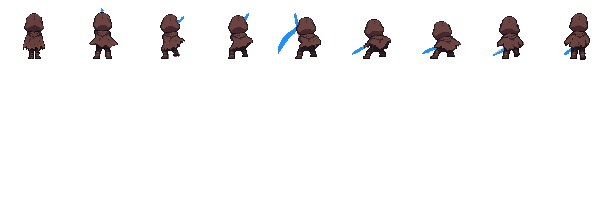
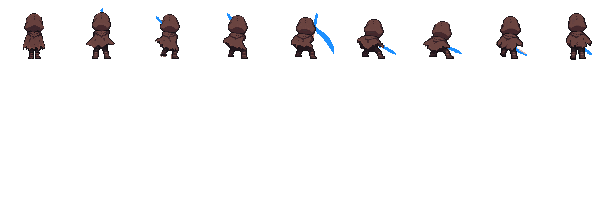
assets: 후면 1타 좌우 뒤집기 스크립트·비교 녹화 갱신

diff --git a/assets/concepts/pixellab/player_import/build_remake_preview.py b/assets/concepts/pixellab/player_import/build_remake_preview.py
@@ -65,9 +65,10 @@ OVERRIDES = {
     # 후면 공격 (2026-11-18, ChatGPT 8자세 attack_back_gpt_68.png): 칼은 늘 몸 뒤(가려짐). 보이는 칼날 끝에서 칼 길이(24)만큼
     # 몸 쪽이 손 (estimate_back_swords.py 로 어림 후 눈으로 맞춤). 칼이 안 보이는 장은 다섯째 값(칼 길이 비율) 0 = 그리지 않음.
     # 후면 1타 2차 (2026-11-18, PixelLab 이 GPT 자세 사이를 다시 그림 attack_back_pl_68.png). 4번째 = 잔상 장 (칼은 잔상 속).
-    ('backpl1', 1): (40, 31, 107, True), ('backpl1', 2): (32, 34, 50, True), ('backpl1', 3): (32, 34, 60, True),
-    ('backpl1', 4): (34, 30, -90, True, 0), ('backpl1', 5): (32, 41, -149, True), ('backpl1', 6): (36, 43, -157, True),
-    ('backpl1', 7): (37, 42, -148, True), ('backpl1', 8): (38, 39, -140, True),
+    # 측면·정면처럼 왼쪽 위로 들어 오른쪽 아래로 베게 좌우로 뒤집음: x → 67 - x, 각도 → 180 - 각도.
+    ('backpl1', 1): (27, 31, 73, True), ('backpl1', 2): (35, 34, 130, True), ('backpl1', 3): (35, 34, 120, True),
+    ('backpl1', 4): (33, 30, -90, True, 0), ('backpl1', 5): (35, 41, -31, True), ('backpl1', 6): (31, 43, -23, True),
+    ('backpl1', 7): (30, 42, -32, True), ('backpl1', 8): (29, 39, -40, True),
     ('backgpt1', 1): (34, 30, -90, True, 0), ('backgpt1', 2): (28, 41, 41, True), ('backgpt1', 3): (32, 34, 50, True),
     ('backgpt1', 4): (34, 30, -90, True, 0), ('backgpt1', 5): (36, 43, -157, True), ('backgpt1', 6): (38, 37, -147, True),
     ('backgpt1', 7): (36, 28, -129, True), ('backgpt1', 8): (34, 30, -90, True, 0),

diff --git a/assets/concepts/pixellab/player_import/build_attack_back_pl.py b/assets/concepts/pixellab/player_import/build_attack_back_pl.py
@@ -24,6 +24,9 @@ PICK = {
 }
 # 휘두르는 장에 겹칠 GPT 잔상: 타 → (8장 중 번호 0부터, GPT 시트 칸)
 ARC = {1: (3, 4)}
+# 좌우로 뒤집는 타 (2026-11-18 사용자: 측면·정면 1타는 화면 왼쪽 위로 들어 오른쪽 아래로 벰. GPT·PixelLab 후면은 반대였음).
+# 뒷모습은 거의 좌우 대칭이라 그림째 뒤집는다 (칼 위치는 build_remake_preview.OVERRIDES 'backpl1' 이 뒤집은 값).
+MIRROR = {1}
 
 
 def blue_only(cell):
@@ -48,6 +51,8 @@ def main():
                 arc = blue_only(gpt_rows[hit][ARC[hit][1]])
                 arc.alpha_composite(f)  # 잔상은 몸 뒤
                 f = arc
+            if hit in MIRROR:
+                f = f.transpose(Image.FLIP_LEFT_RIGHT)
             cells.append(f)
         for k, c in enumerate(cells):
             sheet.alpha_composite(c, (k * 68, (hit - 1) * 68))
